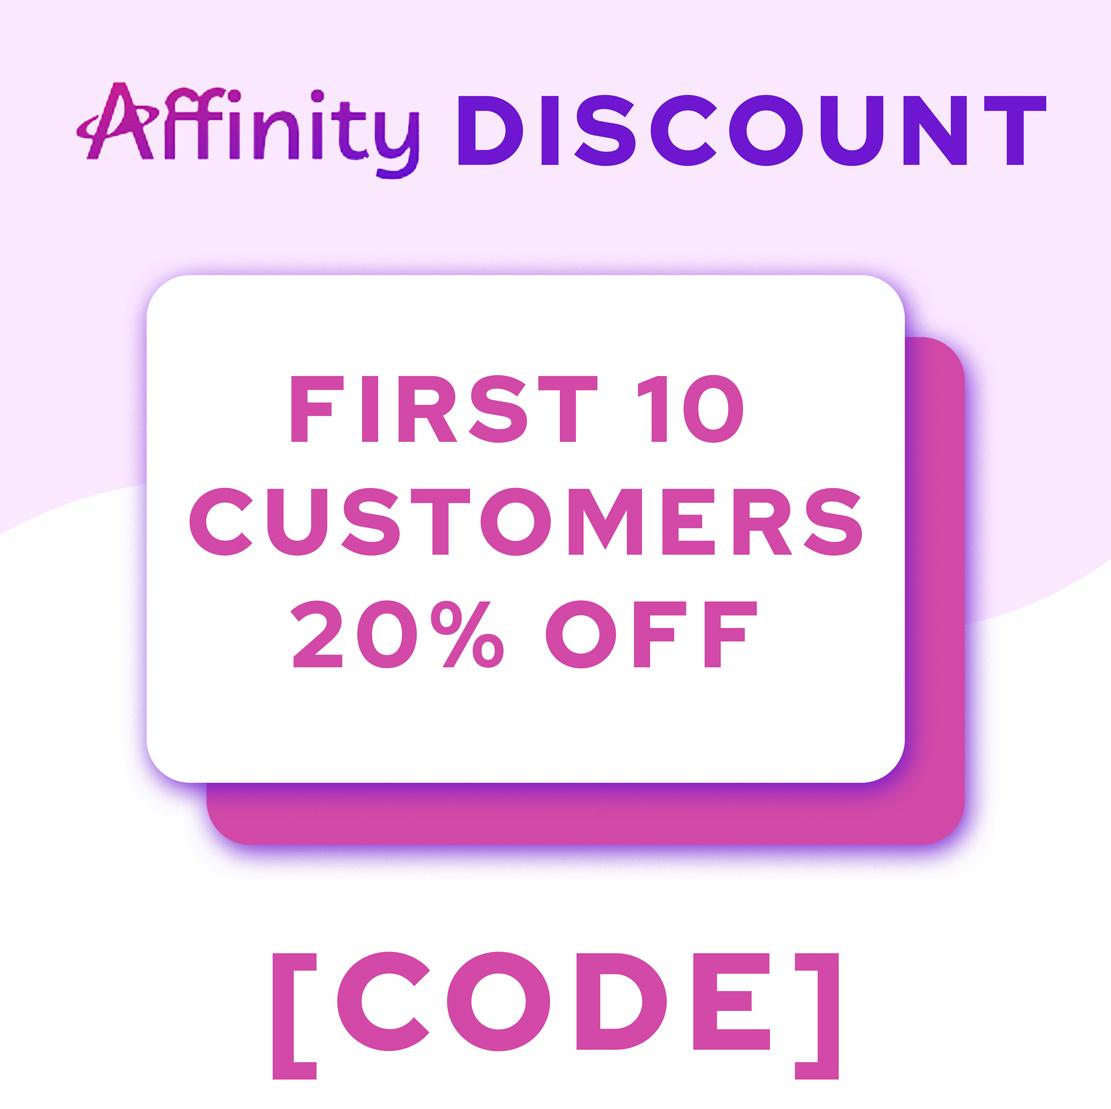
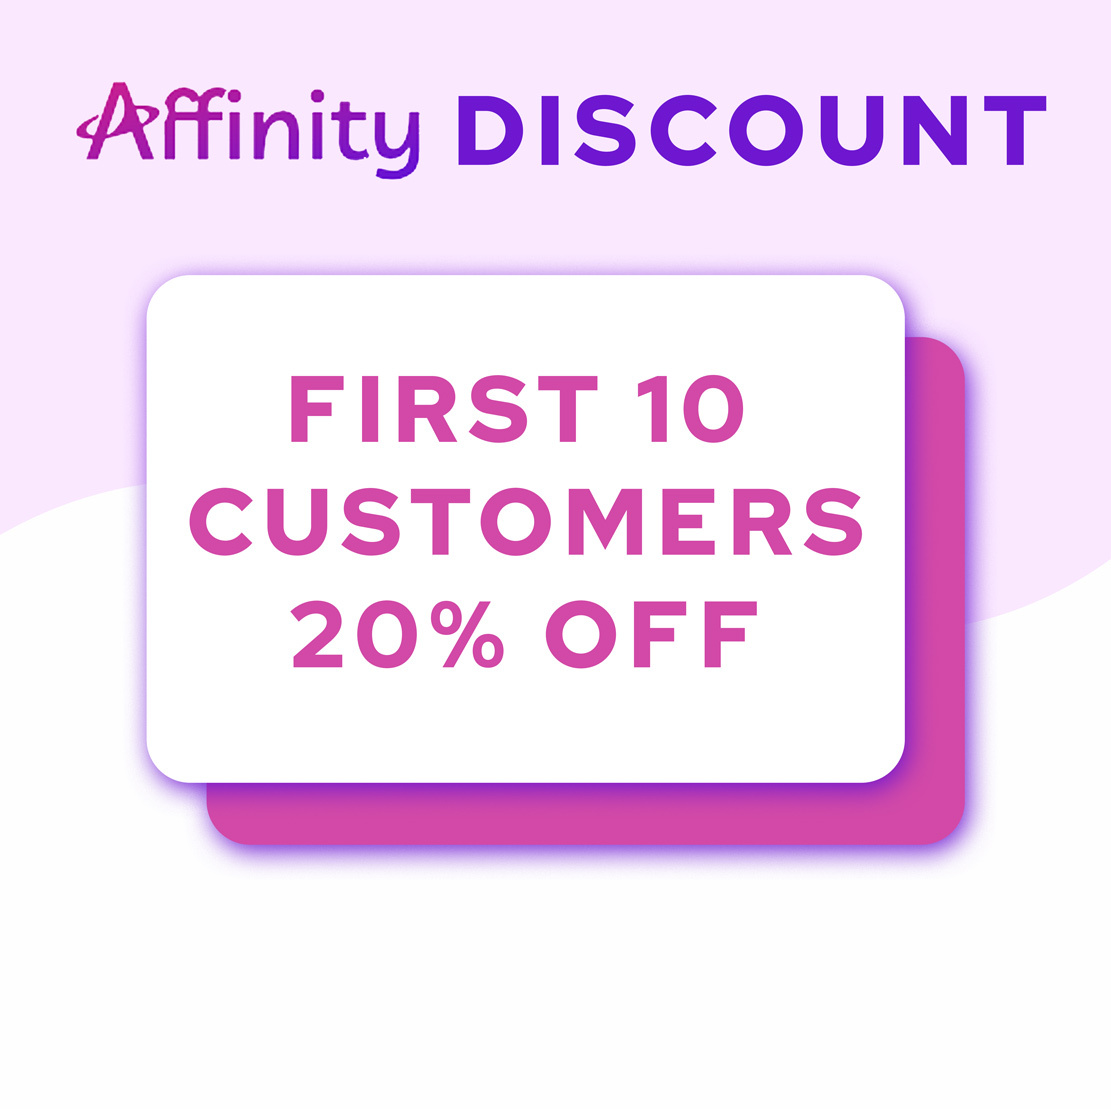
discount image changed

Changed region(s): [[0.2448, 0.8584, 0.7651, 0.9811]]

diff --git a/README.md b/README.md
@@ -62,10 +62,20 @@ php artisan db:seed --class=VoyagerDatabaseSeeder
 ```
 
 
-## Braintree command
+## Braintree commands
 
 ```
 php artisan braintree:plans
+```
+
+
+```
+php artisan braintree:discounts
+```
+
+
+```
+php artisan braintree:subscriptions
 ```
 
 ## Compiling Assets